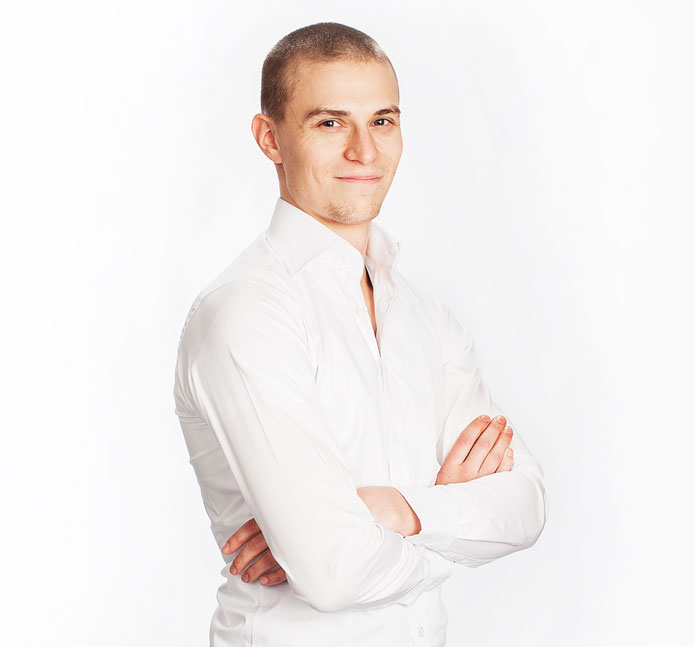
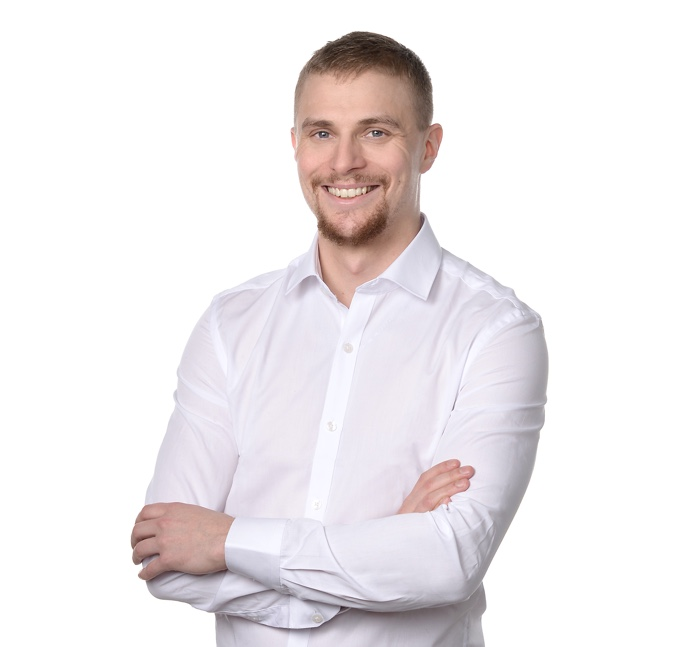
Update pricing and profile photo

Changed region(s): [[0.1813, 0.0309, 0.8158, 1.0], [0.6647, 0.5873, 0.695, 0.6182], [0.6647, 0.5255, 0.695, 0.5564]]

diff --git a/index.html b/index.html
@@ -93,17 +93,17 @@
               </div>
               <div class="row">
                 <div class="col-md-6 col-md-offset-3 text-center">
-                  <a href="#schedule" class="learn-more-btn">Varaa aika hierontaan tai osteopatiaan<br/>alk. 45 €</a>
+                  <a href="#schedule" class="learn-more-btn">Varaa aika hierontaan tai osteopatiaan<br/>alk. 50 €</a>
                 </div>
               </div>
               <div class="row" id="prices">
                 <div class="col-md-8 col-md-offset-2 text-center inner hero-prices-background">
                   <h1 class="arrow">Hieronnan tai osteopatian hinnasto</h1>
                   <table>
-                      <tr><td>30 minuuttia</td><td>45 €</td><td>Viiden kerran sarja 215€</td></tr>
-                      <tr><td>45 minuuttia</td><td>56 €</td><td>Viiden kerran sarja 270€</td></tr>
-                      <tr><td>60 minuuttia</td><td>70 €</td><td>Viiden kerran sarja 335€</td></tr>
-                      <tr><td>90 minuuttia</td><td>98 €</td><td>Viiden kerran sarja 480€</td></tr>
+                      <tr><td>30 minuuttia</td><td>50 €</td><td>Viiden kerran sarja 240€</td></tr>
+                      <tr><td>45 minuuttia</td><td>65 €</td><td>Viiden kerran sarja 315€</td></tr>
+                      <tr><td>60 minuuttia</td><td>80 €</td><td>Viiden kerran sarja 380€</td></tr>
+                      <tr><td>90 minuuttia</td><td>105 €</td><td>Viiden kerran sarja 515€</td></tr>
                   </table>
                 </div>
               </div>
